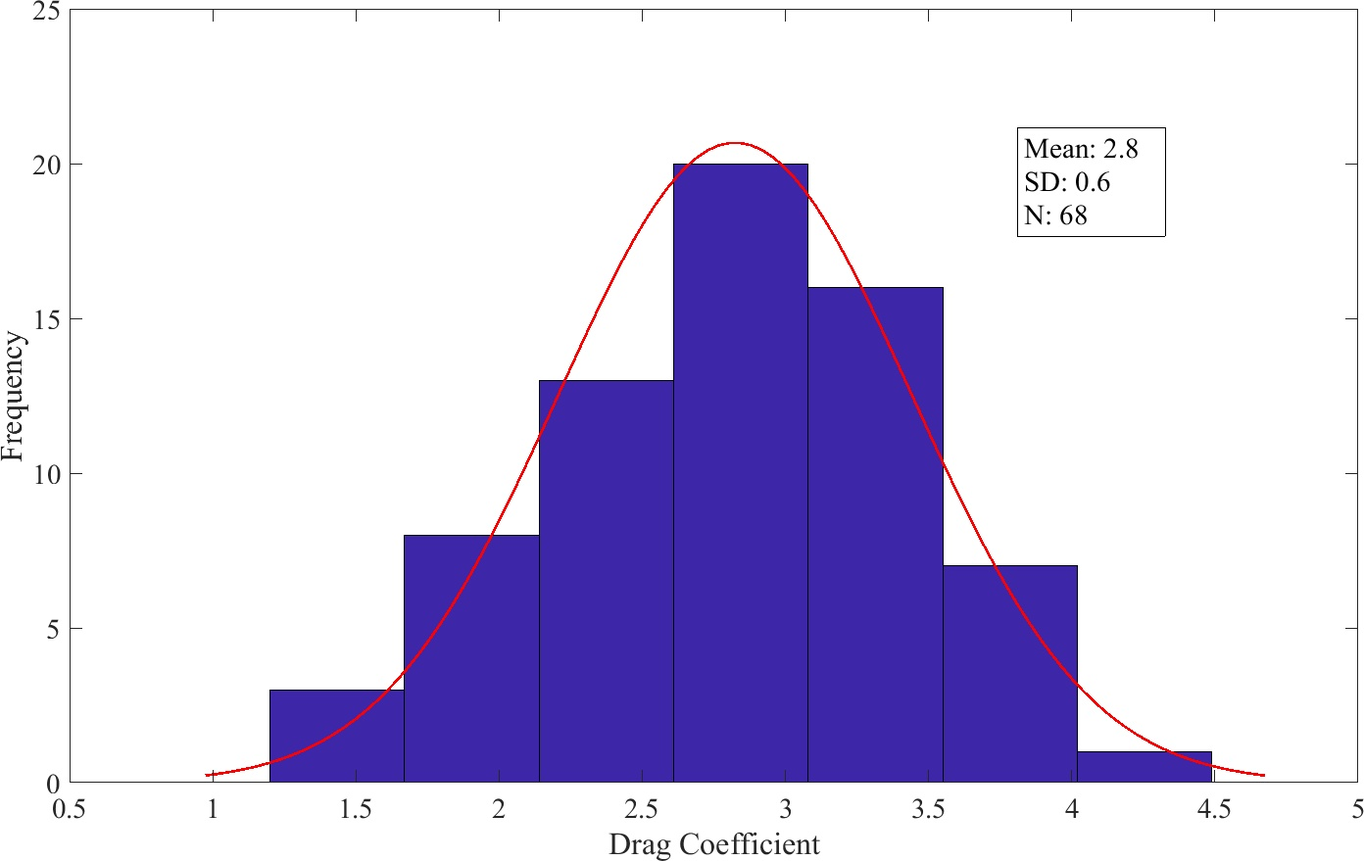
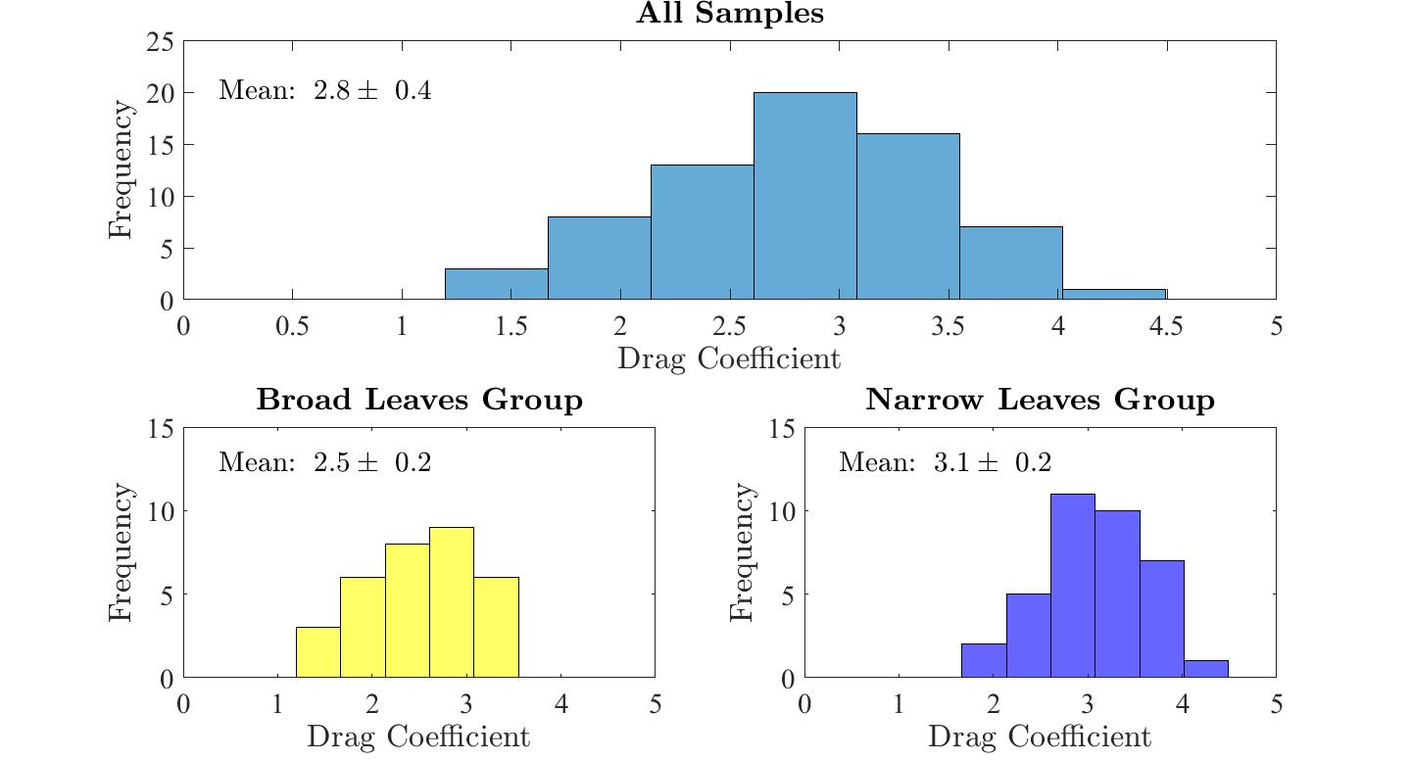
Updated w/o Blaza's write up

diff --git a/Tech_Note/main.tex b/Tech_Note/main.tex
@@ -83,7 +83,7 @@
 %%%%%%%%%%%%%%%%%%%%%%%%%%%%%%%%%%%%%%%%%%%%%%%%%%%%%%%%%%%%%%%%%%%%%%%%%%%%%%%%%%%%%%
 \newcommand{\pubnumber}{XXXX}
 \newcommand{\DOI}{https://doi.org/10.6028/NIST.TN.XXXX}
-\newcommand{\monthyear}{September 2018}
+\newcommand{\monthyear}{October 2018}
 %%%%%%%%%%%%%%%%%%%%%%%%%%%%%%%%%%%%%%%%%%%%%%%%%%%%%%%%%%%%%%%%%%%%
 %   	BEGIN DOCUMENT
 %%%%%%%%%%%%%%%%%%%%%%%%%%%%%%%%%%%%%%%%%%%%%%%%%%%%%%%%%%%%%%%%%%%%
@@ -243,7 +243,7 @@ Vegetation Canopy; Drag Coefficient; Wind Tunnel
 \section{Introduction}
 \label{sec:intro}
 
-The Fire Research Division of the National Institute of Standards and Technology (NIST) has developed several numerical models to predict the behavior of fires within buildings. One of the models, a computational fluid dynamics (CFD) code called the Fire Dynamics Simulator (FDS)~\cite{FDS_Tech_Guide}, has been extended to model fires in the wildland-urban interface (WUI). One crucial component of this type of modeling is proper treatment of wind-driven flow through vegetation. The objective of the experiments described in this report is to measure the drag coefficient of vegetation for an empirical sub-model appropriate for CFD.
+The Fire Research Division of the National Institute of Standards and Technology (NIST) has developed several numerical models to predict the behavior of fires within buildings. One of the models, a computational fluid dynamics (CFD) code called the Fire Dynamics Simulator (FDS)~\cite{FDS_Tech_Guide}, has been extended to model fires in the wildland-urban interface (WUI). One crucial component of this type of modeling is the proper treatment of wind-driven flow through vegetation. The objective of the experiments described in this report is to measure the drag coefficient of vegetation for an empirical sub-model appropriate for CFD.
 
 Measurements of this type have been performed by other researchers~\cite{Cao2012,Jalonen2014,Mayhead1973,Gillies2002,Ishikawa2006}, most of whom used wind tunnels of various sizes. In most cases, a single plant or small tree was positioned within the tunnel and the resistance force measured. However, such a measurement is not readily applicable to a CFD model which does not necessarily consider the tree as a whole but rather as a volume occupied by subgrid-scale objects that decrease the momentum of the gases flowing through. Some plants might be smaller than a characteristic grid cell, and some trees might be larger, but in either case, these objects are just momentum sinks within individual grid cells that require some drag coefficient that is appropriate to the local conditions.
 
@@ -341,9 +341,9 @@ Pressure loss measurements were obtained in a wind tunnel test section with a cr
 %	\label{fig:WindtunnelSch}
 %\end{figure}
 
-Once a set of measurements were taken at all fan speeds, the wind tunnel was shut off for approximately 5~\si{min}, and then the measurements were repeated. All measurements were repeated three times for each vegetation configuration. The variance homogeneity of the replicate measurements was tested using Hartley's F\textsubscript{max} test. If it was found that the data sets were homogenous, then the measurements were averaged.
+Once a set of measurements was taken at all fan speeds, the wind tunnel was shut off for approximately 5~\si{min}, and then the measurements were repeated. All measurements were repeated three times for each vegetation configuration. The variance homogeneity of the replicate measurements was tested using Hartley's F\textsubscript{max} test. If it was found that the data sets were homogenous, then the measurements were averaged.
 
-An uncertainty analysis was conducted for the pressure and air density measurements and the subsequently determined velocities and drag coefficients.The characterization of the uncertainty for each parameter is provided in Appendix~\ref{sec:UncertaintyDrag}.
+An uncertainty analysis was conducted for the pressure and air density measurements and the subsequently determined velocities and drag coefficients. The characterization of the uncertainty for each parameter is provided in Appendix~\ref{sec:UncertaintyDrag}.
 
 \subsection{Determining the Volume of Vegetation via Water Displacement}
 \label{ssec:waterdisp}
@@ -387,18 +387,18 @@ Figure~\ref{fig:betavkappa} presents the relationship between the ``absorption c
 	
 	\begin{tabular*}{\textwidth}{lcclcc}	
 			\hline
-\rule{0pt}{14pt}\textbf{Sample}	&\textbf{Cut}	& {\bf Branch/Leaf Volume}  \hspace{.2in}  &\textbf{Sample}			&	\textbf{Cut}	& {\bf Branch/Leaf Volume}	\\
+\rule{0pt}{14pt}\textbf{Sample}	&\textbf{$\beta$\,(\%)}	& {\bf Branch/Leaf Volume}  \hspace{.2in}  		&\textbf{Sample}		&	\textbf{$\beta$\,(\%)}	& {\bf Branch/Leaf Volume}	\\
 \hline
 \\[0.01cm]
-Spruce		    	&	0		&   1.1			        		& Cypress       	&	0		&	1.5						\\
-					&	1		& 	1.3							&					&	1		&	2.2						\\
-					&	2		& 	1.5							&					&	2		&	3.0						\\
-					&	3		&	N/A							&					&	3		&  	N/A 						\\
-					&			&								&					&			&       							\\
-Distylium			&	0		&	1.0							& Holly	     		&	0		&	11						\\
-					&	1		&	1.4							&					&	1		&	16						\\
-					&	2		&	3.3							&					&	2		&	47						\\
-					&			&								&					&	3		&        N/A 						\\
+Blue Spruce		    		&	1.9			& 	1.1			        				& Cypress       		&	1.7		&	1.5						\\
+					&	1.8			& 	1.3							&				&	1.4		&	2.2						\\
+					&	1.2			& 	1.5							&				&	1.2		&	3.0						\\
+					&	0.7			&	N/A							&				&	0.9		&  	N/A 						\\
+					&				&								&				&			&       							\\
+Distylium				&	0.5			&	1.0							& Red Holly	     		&	2.7		&	11						\\
+					&	0.4			&	1.4							&				&	2.3		&	16						\\
+					&	0.3			&	3.3							&				&	2.2		&	47						\\
+					&				&								&				&	2.1		&        N/A 						\\
 \\[0.005cm]
 \hline														
 
@@ -411,7 +411,7 @@ Distylium			&	0		&	1.0							& Holly	     		&	0		&	11						\\
 \subsection{Vegetation Canopy Drag Coefficients}
 \label{ssec:headingscap}
 
-Figure~\ref{fig:DPvU(Overall)} displays the relationship between the freestream velocity and the pressure drop for each sample configuration. The results demonstrate the expected quadratic relationship. Replotting the data as shown in Fig.~\ref{fig:DPoveraf(Overall)} yields the drag coefficient for each sample configuration as determined by calculating the slope of each line of data points. No linear regression fitting was observed to have a coefficient of determination value less than 0.98, indicating a close representation of the fitted regression line to the measured data. A summary of all 68 calculated drag coefficients and their respective uncertainties are presented in Table \ref{tab:SumTable}\footnote{The procedure for determining the drag coefficient uncertainty as shown in this table can be found in Appendix~\ref{sec:UncertaintyDrag}. For most instances, the uncertainty in the velocity measurement was found to be the primary contributor to the drag coefficient uncertainty. In other cases, the uncertainty of the measured pressure loss across the vegetation was the primary contributor to the drag coefficient uncertainty.}.
+Figure~\ref{fig:DPvU(Overall)} displays the relationship between the freestream velocity and the pressure drop for each sample configuration. The results demonstrate the expected quadratic relationship. Replotting the data as shown in Fig.~\ref{fig:DPoveraf(Overall)} yields the drag coefficient for each sample configuration as determined by calculating the slope of each line of data points. No linear regression fitting was observed to have a coefficient of determination less than 0.98, indicating a close representation of the fitted regression line to the measured data. A summary of all 68 calculated drag coefficients and their respective uncertainties are presented in Table \ref{tab:SumTable}\footnote{The procedure for determining the drag coefficient uncertainty as shown in this table can be found in Appendix~\ref{sec:UncertaintyDrag}. For most instances, the uncertainty in the velocity measurement was found to be the primary contributor to the drag coefficient uncertainty. In other cases, the uncertainty of the measured pressure loss across the vegetation was the primary contributor to the drag coefficient uncertainty.}.
 
 \begin{sidewaysfigure} [!]
 	\centering
@@ -427,77 +427,79 @@ Figure~\ref{fig:DPvU(Overall)} displays the relationship between the freestream 
 	\label{fig:DPoveraf(Overall)}
 \end{sidewaysfigure}
 
-The distribution of the measured drag coefficients for all sample configurations is shown in Fig.~\ref{fig:Histogram}. A Kolmogorov-Smirnov test (K-S test) was implemented to test the normality of the drag coefficient data. The K-S test determined that the drag coefficients of all sample configurations do not significantly vary ($D(68)=\,0.09$) from normality\footnote{The $D$ refers to the Kolmogorov-Smirnov test statistic, the 68 in brackets is the degrees of freedom (df), and the 0.09 is the actual K-S test statistic.}. The normal distribution of the data is further supported by the ``bell curve'' fitting displayed in  Fig.~\ref{fig:Histogram}. The average drag coefficient of all sample configurations was determined to be 2.8 with a standard deviation of 0.6.
+The distribution of the measured drag coefficients for all sample configurations is shown in Fig.~\ref{fig:Histogram}. The collection of sample configurations is divided into two groups based on leaf shape (i.e., broad and narrow). The broad leaves group included the Evergreen Distylium, a Kimberly Queen Fern, and a Robin Red Holly while the narrow leaves group was comprised of the remaining species. The average drag coefficient of all sample configurations was determined to be 2.8 with an expanded uncertainty of 0.4. 
 
-\begin{figure}[!h]
+\begin{figure}[!]
 	%\centering 	
 \includegraphics[width=\textwidth,keepaspectratio]{Picture11.jpg}
-	\caption[Distribution of drag coefficients]{Distribution of vegetation samples drag coefficients with noted mean and standard deviation values}
+	\caption[Distribution of drag coefficients for all samples (top), samples with broad leaves (bottom left), samples with narrow leaves (bottom right)]{Distribution of vegetation samples drag coefficients with noted mean and standard deviation values}
 	\label{fig:Histogram}
 \end{figure}
 
+To determine if the average drag coefficient depends on the type of vegetation a one-way analysis of variance (ANOVA) was implemented on the drag coefficients of the different vegetation samples. The analysis yielded a significant variation ($F(5,62)=4.88$, $p=7.97 \times 10^{-4}$) among the species\footnote{The $F$ refers to the statistic obtained from the F-test conducted in the ANOVA, the 5 and 62 in brackets represent the degrees of freedom, and the 4.88 is the actual F statistic derived from the ANOVA. The $p$ refers to the significance level determined from the F statistic and the $7.97 \times 10^{-4}$ is the actual p-value which was determined to be less than the chosen confidence level of 0.05, indicating a significant difference between the mean drag coefficients of the samples.}. A Tukey test was subsequently applied to determine if the species-specific average drag coefficients were significantly different from each other. The results showed one significant difference between the species' average drag coefficients: the Robin Red Holly and Gold-Rider Leyland Cypress. Despite the significant difference, the average drag coefficients of the Robin Red Holly and Gold-Rider Leyland Cypress are still within the uncertainty bound of the overall drag coefficient and therefore are not large enough to have a practical implication. 
+
+Further analysis was conducted to compare the two leaf shape groups. As shown in Fig.~\ref{fig:Histogram}, the broad leaves group appears to have lower drag coefficients compared to the narrow leaves group. The average drag coefficient of the broad leaves group was 2.5 with an expanded uncertainty of 0.2 while the narrow leaves group had an average of 3.1 with an expanded uncertainty of 0.2. In comparison, the two groups have significantly different means, with the average drag coefficient of the narrow leaves group being higher. However, the average drag coefficients of both groups are still within the uncertainty bound of the overall average drag coefficient suggesting that mean drag coefficient obtained from all samples could be a reasonable approximation when applied as a consistent drag coefficient for vegetation canopies in CFD models. 
+
 \begin{table}[!]
-\caption{Drag Coefficient Summary of Vegetation Samples}
+
+\caption{Drag Coefficient Summary of Vegetation Samples.}
 \label{tab:SumTable}
 \centering
-
 	\footnotesize
-	\begin{tabular}{cccccccccc}	
+	\begin{tabular}{cccccccccccc}	
 			\hline
-\textbf{Sample}		&	\textbf{Cut}	&\textbf{Position}& $C_{\rm d}$ 	&\textbf{Uncertainty}	&\textbf{Sample}	&	\textbf{Cut}	&\textbf{Position}& 	\textbf{$C_{\rm d}$ }&\textbf{Uncertainty}\\
+\textbf{Sample}		& \textbf{$\beta$\,(\%)}		&\textbf{Position}& $C_{\rm d}$ &\textbf{Uncertainty}	&\textbf{Sample}		& \textbf{$\beta$\,(\%)}&\textbf{Position}& 	\textbf{$C_{\rm d}$ }&\textbf{Uncertainty}\\
 \hline
 \\[0.05cm]
-Blue Spruce				&	0	&	A	& 	3.6	&	0.9				& Cypress       		&	0	&	A	& 	3.0	&	0.9	\\
-					&		&	B	& 	3.1	&	0.8				&				&		&	B	& 	3.2	&	0.8	\\
-					&		&	C	& 	3.1	&	0.8				&				&		&	C	& 	3.4	&	1.0	\\
-					&		&	D	& 	3.0	&	0.8				&				&		&	D	& 	3.0	&	0.8	\\
-					&	1	&	A	& 	3.8	&	0.8				&				&	1	&	A	& 	3.3	&	0.8	\\
-					&		&	B	& 	3.0	&	0.7				&				&		&	B	& 	2.9	&	0.7	\\
-					&		&	C	& 	3.1	&	0.7				&				&		&	C	& 	3.3	&	0.8	\\
-					&		&	D	& 	3.6	&	0.8				&				&		&	D	& 	3.8	&	0.9	\\
-					&	2	&	A	& 	3.2	&	0.7				&				&	2	&	A	& 	2.1	&	0.5	\\
-					&		&	B	& 	2.6	&	0.6				&				&		&	B	& 	3.2	&	0.7	\\
-					&		&	C	& 	2.5	&	0.5				&				&		&	C	& 	3.1	&	0.7	\\
-					&		&	D	& 	2.8	&	0.6				&				&		&	D	& 	3.3	&	0.7	\\
-					&	3	&	A	& 	2.5	&	0.6				&				&	3	&	A	& 	2.9	&	0.7	\\
-					&		&	B	& 	2.3	&	0.7				&				&		&	B	& 	3.9	&	0.9	\\
-					&		&	C	& 	2.2	&	0.7				&				&		&	C	& 	3.0	&	0.8	\\
-					&		&	D	& 	2.2	&	0.7				&				&		&	D	& 	3.8	&	0.9	\\
-					&		&		& 		&					&				&		&		& 		&		\\
-White Pine	       			 &	0	&	A	& 	4.4	&	1.2				& Fern	       		 &	0	&	A	& 	3.4	&	0.9	\\
-					&		&	B	& 	2.8	&	0.7				&				&		&	B	& 	3.1	&	0.8	\\	
-					&		&	C	& 	2.1	&	0.6				&				&		&	C	& 	3.3	&	0.9	\\
-					&		&	D	& 	3.6	&	0.9				&				&		&	D	& 	2.6	&	0.7	\\
-					&		&		& 		&					&				&		&		& 		&		\\
-Distylium				&	0	&	A	& 	3.2	&	0.7				&Red Holly			&	0	&	A	& 	3.1	&	0.8	\\
-					&		&	B	& 	2.9	&	0.7				&				&		&	B	& 	2.6	&	0.7	\\
-					&		&	C	& 	3.1	&	0.7				&				&		&	C	& 	2.5	&	0.7	\\
-					&		&	D	& 	3.4	&	0.8				&				&		&	D	& 	2.7	&	0.8	\\
-					&	1	&	A	& 	2.7	&	0.6				&				&	1	&	A	& 	2.8	&	0.6	\\
-					&		&	B	& 	2.3	&	0.5				&				&		&	B	& 	2.0	&	0.5	\\
-					&		&	C	& 	3.1	&	0.7				&				&		&	C	& 	2.5	&	0.6	\\
-					&		&	D	& 	2.9	&	0.7				&				&		&	D	& 	1.8	&	0.4	\\
-					&	2	&	A	& 	2.0	&	0.5				&				&	2	&	A	& 	3.4	&	0.6	\\
-					&		&	B	& 	1.5	&	0.4				&				&		&	B	& 	2.2	&	0.4	\\
-					&		&	C	& 	1.7	&	0.5				&				&		&	C	& 	2.7	&	0.5	\\
-					&		&	D	& 	2.6	&	0.6				&				&		&	D	& 	2.5	&	0.5	\\
-					&		&		& 		&					&				&	3	&	A	& 	2.1	&	0.5	\\
-					&		&		& 		&					&				&		&	B	& 	1.6	&	0.5	\\
-					&		&		& 		&					&				&		&	C	& 	1.6	&	0.5	\\
-					&		&		& 		&					&				&		&	D	& 	1.7	&	0.5	\\
+Blue Spruce			&	1.9	&	A	& 	3.6		&	0.5			& Cypress       		&	1.7	&	A	& 	3.0	&	0.5	\\
+				&		&	B	& 	3.1		&	0.5			&				&		&	B	& 	3.2	&	0.5	\\
+				&		&	C	& 	3.1		&	0.4			&				&		&	C	& 	3.4	&	0.5	\\
+				&		&	D	& 	3.0		&	0.4			&				&		&	D	& 	3.0	&	0.4	\\
+				&	1.8	&	A	& 	3.8		&	0.5			&				&	1.4	&	A	& 	3.3	&	0.4	\\
+				&		&	B	& 	3.0		&	0.4			&				&		&	B	& 	2.9	&	0.4	\\
+				&		&	C	& 	3.1		&	0.4			&				&		&	C	& 	3.3	&	0.4	\\
+				&		&	D	& 	3.6		&	0.4			&				&		&	D	& 	3.8	&	0.4	\\
+				&	1.2	&	A	& 	3.2		&	0.4			&				&	1.2	&	A	& 	2.1	&	0.5	\\
+				&		&	B	& 	2.6		&	0.3			&				&		&	B	& 	3.2	&	0.3	\\
+				&		&	C	& 	2.5		&	0.3			&				&		&	C	& 	3.1	&	0.4	\\
+				&		&	D	& 	2.8		&	0.3			&				&		&	D	& 	3.3	&	0.4	\\
+				&	0.7	&	A	& 	2.5		&	0.4			&				&	0.9	&	A	& 	2.9	&	0.4	\\
+				&		&	B	& 	2.3		&	0.4			&				&		&	B	& 	3.9	&	0.4	\\
+				&		&	C	& 	2.2		&	0.4			&				&		&	C	& 	3.0	&	0.5	\\
+				&		&	D	& 	2.2		&	0.4			&				&		&	D	& 	3.8	&	0.5	\\
+				&		&		& 			&				&				&		&		& 		&		\\
+White Pine	       		&	2.8	&	A	& 	4.4		&	0.7			& Fern	       		&	0.4	&	A	& 	3.4	&	0.5	\\
+				&		&	B	& 	2.8		&	0.4			&				&		&	B	& 	3.1	&	0.4	\\	
+				&		&	C	& 	2.1		&	0.4			&				&		&	C	& 	3.3	&	0.5	\\
+				&		&	D	& 	3.6		&	0.5			&				&		&	D	& 	2.6	&	0.4	\\
+				&		&		& 			&				&				&		&		& 		&		\\
+Distylium			&	0.5	&	A	& 	3.2		&	0.4			&Red Holly			&	2.7	&	A	& 	3.1	&	0.5	\\
+				&		&	B	& 	2.9		&	0.4			&				&		&	B	& 	2.6	&	0.4	\\
+				&		&	C	& 	3.1		&	0.4			&				&		&	C	& 	2.5	&	0.4	\\
+				&		&	D	& 	3.4		&	0.4			&				&		&	D	& 	2.7	&	0.4	\\
+				&	0.4	&	A	& 	2.7		&	0.3			&				&	2.3	&	A	& 	2.8	&	0.4	\\
+				&		&	B	& 	2.3		&	0.3			&				&		&	B	& 	2.0	&	0.3	\\
+				&		&	C	& 	3.1		&	0.4			&				&		&	C	& 	2.5	&	0.3	\\
+				&		&	D	& 	2.9		&	0.4			&				&		&	D	& 	1.8	&	0.3	\\
+				&	0.3	&	A	& 	2.0		&	0.3			&				&	2.2	&	A	& 	3.4	&	0.3	\\
+				&		&	B	& 	1.5		&	0.2			&				&		&	B	& 	2.2	&	0.2	\\
+				&		&	C	& 	1.7		&	0.3			&				&		&	C	& 	2.7	&	0.3	\\
+				&		&	D	& 	2.6		&	0.3			&				&		&	D	& 	2.5	&	0.3	\\
+				&		&		& 			&				&				&	2.1	&	A	& 	2.1	&	0.3	\\	
+				&		&		& 			&				&				&		&	B	& 	1.6	&	0.3	\\
+				&		&		& 			&				&				&		&	C	& 	1.6	&	0.3	\\
+				&		&		& 			&				&				&		&	D	& 	1.7	&	0.3	\\
 \\[0.05cm]
 \hline														
 \end{tabular}
 \end{table}
 
-To determine if the average drag coefficient depends on the type of vegetation a one-way analysis of variance (ANOVA) was implemented on the drag coefficients of the different vegetation samples. The analysis yielded a significant variation ($F(5,62)=4.88$, $p=7.97 \times 10^{-4}$) among the species\footnote{The $F$ refers to the statistic obtained from the F-test conducted in the ANOVA, the 5 and 62 in brackets represent the degrees of freedom, and the 4.88 is the actual F statistic derived from the ANOVA. The $p$ refers to the significance level determined from the F statistic and the $7.97 \times 10^{-4}$ is the actual p-value which was determined to be less than the chosen confidence level of 0.05, indicating a significant difference between the mean drag coefficients of the samples.}. A Tukey test was subsequently applied to if the species-specific average drag coefficients were significantly different from each other. The results showed one significant difference between the species' average drag coefficients: the Robin Red Holly and Gold-Rider Leyland Cypress. Despite this statistically significant difference, the average drag coefficients of the Robin Red Holly and Gold-Rider Leyland Cypress are both within one standard deviation away from the overall average drag coefficient, as demonstrated in Fig.~\ref{fig:Histogram},  and therefore is not large enough to have a practical implication. It can then be concluded that the variance of drag coefficients determined for each species is non-significant, meaning the overall average drag coefficient presented in Fig.~\ref{fig:Histogram} could be applied as a consistent drag coefficient for vegetation canopies in CFD models.
-
 \section{Comparison Between Vegetation Data and Tube Bank Models}
 \label{sec:comp}
 
-In comparison to previous work~\cite{Cao2012,Jalonen2014,Mayhead1973,Gillies2002,Ishikawa2006}, the magnitude of the measured drag coefficients in this study is relatively large. As discussed in Section~\ref{sec:intro}, most previous studies have measured the wind resistance of a single plant or tree within a larger wind tunnel while this work considered a relatively homogenous distribution of vegetation within a tunnel. The interpretation of ``freestream'' velocity, shape factor, cross-sectional area, and so on, are often different in these studies, making it difficult to compare drag coefficients from one study to another. Within the field, there is no single definition of drag coefficient in regard to vegetation.
+In comparison to previous work~\cite{Cao2012,Jalonen2014,Mayhead1973,Gillies2002,Ishikawa2006}, the magnitude of the measured drag coefficients in this study is relatively large. As discussed in Section~\ref{sec:intro}, most previous studies have measured the wind resistance of a single plant or tree within a larger wind tunnel while this work considered a relatively homogenous distribution of vegetation within a tunnel. The interpretation of ``freestream'' velocity, shape factor, cross-sectional area, and so on, are often different in these studies, making it difficult to compare drag coefficients from one study to another. Within the field, there is no single definition of drag coefficient regarding vegetation.
 
-As a way to verify the accuracy of our wind tunnel measurements and the validity of our drag coefficient derivation, we considered a bank of regularly-spaced, staggered, vertical cylinders within our wind tunnel, using both actual steel rods and empirical results from Idelchik~\cite{Idelchik1994}. For each of the measured vegetation samples, a comparable configuration of vertical tubes was chosen such that the volume fraction, $\beta$, ``absorption coefficient,'' $\kappa$, and characteristic diameter, $D$, match as closely as possible (see Table~\ref{tab:tube_parameters}). The characteristic diameter was calculated from Eq.~\ref{eq:Kappa} using the measured $\beta$ and $\kappa$ values and assuming a cylindrical shape factor ($C_{\mathrm{s}} = 1/\pi$). To account for the repeated tube formation for each row, the $\kappa$ value of the tube bank was determined from the distance between rows, $L'$, and Eq.~\ref{eq:WhiteFraction}. According to Idelchik, the expected pressure drop through the tube bank is:
+As a way to verify the accuracy of our wind tunnel measurements and the validity of our drag coefficient derivation, we considered a bank of regularly-spaced, staggered, vertical cylinders within our wind tunnel, using both actual steel rods and empirical results from Idelchik~\cite{Idelchik1994}. For each of the measured vegetation samples, a comparable configuration of vertical tubes was chosen such that the volume fraction, $\beta$, ``absorption coefficient,'' $\kappa$, and characteristic diameter, $D$, match as closely as possible (see Table~\ref{tab:tube_parameters}). The characteristic diameter was calculated from Eq.~\ref{eq:Kappa} using the measured $\beta$ and $\kappa$ values and assuming a cylindrical shape factor ($C_{\mathrm{s}} = 1/\pi$). To account for the repeated tube formation for each row the $\kappa$ value of the tube bank was determined from the distance between rows, $L'$, and Eq.~\ref{eq:WhiteFraction}. According to Idelchik, the expected pressure drop through the tube bank is:
 \begin{equation}
 \label{eq:IdelchickTB}
 \Delta P = \frac{\rho}{2}\, \zeta  \left( \frac{U}{W} \right)^2  \quad ; \quad \zeta = A \, \mathrm{Re}^{-0.27} (N_\mathrm{r}+1) \quad ; \quad  \mathrm{Re} = \frac{(U/W) \, D \, \rho}{\mu_\mathrm{air}}
@@ -515,12 +517,12 @@ where $A$ is a geometric parameter determined from the tube bank configuration, 
     \hline
                                  & \multicolumn{2}{|c|}{$\beta$ (\%)} & \multicolumn{2}{|c|}{$\kappa$ (m$^{-1}$)} & \multicolumn{2}{|c|}{$D$ (mm)} &                             &                         &         \\ \cline{2-7}
     \raisebox{1.5ex}[0pt]{Pos.}  & Veg.             & Tubes      & Veg.                 & Tubes              & Veg.              & Tubes      & \raisebox{1.5ex}[0pt]{Rows} & \raisebox{1.5ex}[0pt]{$\textfrac{\rm{Tubes}}{\rm{Row}}$} &\raisebox{1.5ex}[0pt]{$L'$ (cm)}\\ \hline \hline
-    \multicolumn{10}{|c|}{Bakers Blue Spruce, Cut 1}                                                                                                                                                    \\ \hline
+    \multicolumn{10}{|c|}{Blue Spruce}                                                                                                                                                    \\ \hline
     A                            & 1.8            & 1.8      & 2.4                  & 2.4                & 9.4               & 10.6        & 5                           & 10           &          10.0           \\ \hline
     B                            & 1.8            &1.8     & 2.6                & 2.6               &8.6               & 9.5       & 7                           & 9                      &         7.1  \\ \hline
     C                            & 1.8            & 1.7      & 2.3                  & 2.3                & 9.7               & 11.2       &4                            & 11            &      12.5             \\ \hline
     D                            & 1.8           & 1.8      & 2.5                 & 2.5               & 8.9             & 10.4       & 4                           & 13                 &  12.5             \\ \hline
-        \multicolumn{10}{|c|}{Gold Rider Leyland Cypress, Cut 1}                                                                                                                                                    \\ \hline
+        \multicolumn{10}{|c|}{Cypress}                                                                                                                                                    \\ \hline
     A                            &1.4           & 1.4      & 2.1                  & 2.2                & 8.3              & 8.9       & 7                           & 8                 &   7.1         \\ \hline
     B                            & 1.4          & 1.4      & 1.9                  & 2.0               & 9.2               & 10.7        & 3                           & 13            &   16.7                 \\ \hline
     C                            & 1.4           & 1.4     & 2.2                  & 2.2                & 8.1               & 9.3       & 4                          & 13               &   12.5       \\ \hline
@@ -530,8 +532,8 @@ where $A$ is a geometric parameter determined from the tube bank configuration, 
 
 \begin{figure}[!]
 	\centering 	
-\includegraphics[width=1\linewidth]{Picture13.jpg}
-	\caption[Drag Coefficient comparison between vegetation samples and tube bank configurations]{Drag Coefficient comparison between vegetation sample configurations (Bakers Blue Spruce, Cut 1 and Gold Rider Leyland Cypress, Cut 1) and thier corresponding tube bank configuration with respect to velocity}
+\includegraphics[width=\textwidth,keepaspectratio]{Picture13.jpg}
+	\caption[Drag Coefficient comparison between vegetation samples and tube bank configurations]{Drag Coefficient comparison between vegetation sample configurations [Bakers Blue Spruce ($\beta$=1.8\%) and Gold Rider Leyland Cypress ($\beta$=1.4\%)] and their corresponding tube bank configuration with respect to velocity}
 	\label{fig:TBGR}
 \end{figure}
 
@@ -544,7 +546,7 @@ This report documents a series of experiments implemented to determine the absor
 
 \begin{enumerate}
   \item The calculated absorption coefficient for each sample demonstrated a strong relationship with its corresponding solid fraction.
-  \item The overall average drag coefficient of the bulk vegetation was found to be 2.8 with a standard deviation of 0.6. The differences between the average drag coefficients of different plant species were concluded to be non-significant suggesting that the overall average drag coefficient could be used as a constant value in CFD models of various plant types.
+  \item The overall average drag coefficient of the bulk vegetation was found to be 2.8 with an expanded uncertainty of 0.4. The differences between the average drag coefficients of different plant species and or leaves type groups were concluded to be non-significant suggesting that the overall average drag coefficient could be used as a constant value in CFD models of various plant types.
 \end{enumerate}
 
 \section*{Acknowledgments}
@@ -602,18 +604,23 @@ u_{\scriptscriptstyle \Delta P} = \sqrt{ u_{\rm \scriptscriptstyle cal}^2 + s_{\
 
 The density of air was determined from the absolute pressure, temperature, and relative humidity readings obtained simultaneously with the wind tunnel measurements:
 \begin{equation}
-\rho  =  \frac{P - \phi\,P_{\mathrm{sat}}}{R_d\,T}+\frac{\phi\,P_{\mathrm{sat}}}{R_v\,T}
+\rho  =  \frac{P}{R\,T}
 \end{equation}
-where $T$ is the measured air temperature,$\phi$ is the relative humidity, $P$ and $P_{\rm{sat}}$ are the absolute and saturation vapor pressures, respectively, and  $R_d$ and $R_v$ are the specific gas constants for dry air (287~\si{\frac{J}{kg\,K}}) and water vapor (461~\si{\frac{J}{kg\,K}}), respectively. The saturation vapor pressure was calculated from the temperature readings of the testing facility:
+where $T$ is the measured air temperature, $P$ is the absolute pressure , and  $R$ is the specific gas constants for air (287~\si{\frac{J}{kg\,K}}). The Type A evaluation of uncertainty of air density was determined from the standard uncertainty of the absolute pressure, $s_{\scriptscriptstyle P}$, and temperature, $s_{\scriptscriptstyle T}$, readings of the testing facility. The Type B evaluation of air density was determined from the error sources in the instrauments,$ u_{\rm \scriptscriptstyle inst.}$, used to measure the absolute pressure (1~\% accuracy of the pressure gauge) and temperature (1.5~$^{\circ}$ C) of air in the testing facility. The combined uncertainty of the pressure and temperature was found via quadrature:
 \begin{equation}
-P_{\mathrm{sat}} =6.1078\, \times \, 10^{\frac{7.5\,T}{T+237.3}}
+\label{eq:abspressureuncertainty}
+u_{\scriptscriptstyle P} = \sqrt{ u_{\rm \scriptscriptstyle inst.}^2 + s_{\scriptscriptstyle P}^2}
 \end{equation}
-The Type A evaluation of uncertainty of air density was determined from the standard uncertainty of the absolute pressure, $s_{\scriptscriptstyle P}$, temperature, $s_{\scriptscriptstyle T}$, and relative humidity, $s_{\scriptscriptstyle \phi}$, readings of the testing facility. The standard uncertainty of the air density was determined through the law propagation of uncertainties:
 \begin{equation}
-\label{eq:Densityuncertainty}
-u_{\scriptscriptstyle \rho} = \sqrt{{\left( \frac{\partial \rho}{\partial P}\,s_{\scriptscriptstyle P} \right) }^2+{\left(\frac{\partial \rho}{\partial T}\,s_{\scriptscriptstyle T}\right)}^2+{\left(\frac{\partial \rho}{\partial \phi}\,s_{\scriptscriptstyle \phi}\right)}^2}
+\label{eq:tempuncertainty}
+u_{\scriptscriptstyle T} = \sqrt{ u_{\rm \scriptscriptstyle inst.}^2 + s_{\scriptscriptstyle T}^2}
 \end{equation}
 
+The standard uncertainty of the air density was determined through the law propagation of uncertainties:
+\begin{equation}
+\label{eq:Densityuncertainty}
+u_{\scriptscriptstyle \rho} = \sqrt{{\left( \frac{\partial \rho}{\partial P}\,u_{\scriptscriptstyle P} \right) }^2+{\left(\frac{\partial \rho}{\partial T}\,u_{\scriptscriptstyle T}\right)}^2}
+\end{equation}
 
 \subsection{Velocity}
 \label{ssec:VelUncertainty}
